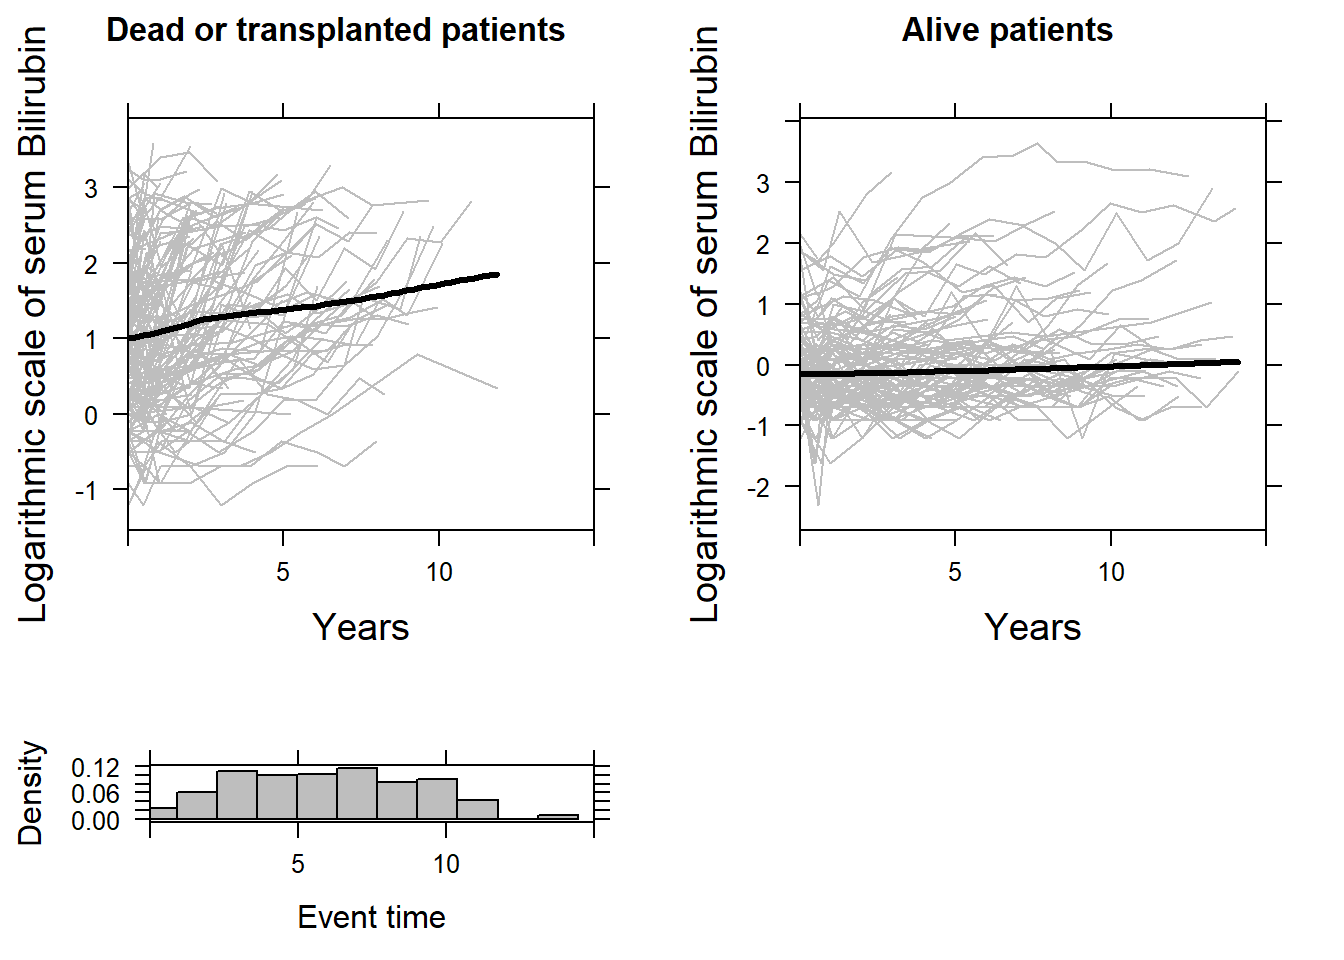
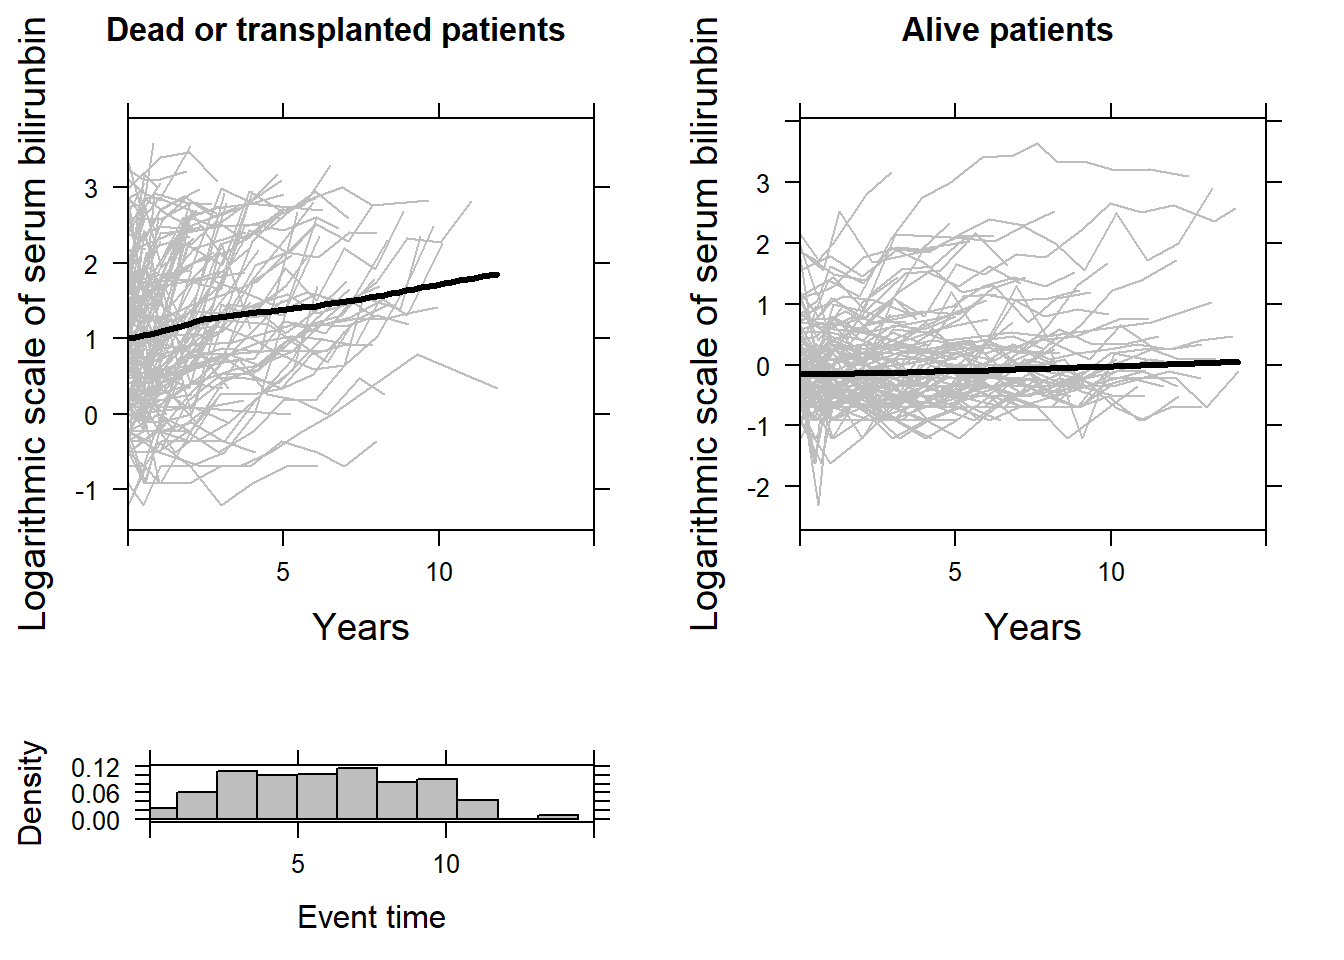
Correct name of serum bilirunbin

Changed region(s): [[0.5, 0.0, 0.5625, 0.6562], [0.0, 0.0, 0.0625, 0.6562]]

diff --git a/about.html b/about.html
@@ -387,7 +387,14 @@ div.tocify {
 3  2 14.15234  alive D-penicil 56.44782 female 0.0000000      No          Yes     Yes                No edema      1.1     302    4.14     7395 113.5       221        10.6          3       0
 4  2 14.15234  alive D-penicil 56.44782 female 0.4983025      No          Yes     Yes                No edema      0.8      NA    3.60     2107 139.5       188        11.0          3       0
 5  2 14.15234  alive D-penicil 56.44782 female 0.9993429      No          Yes     Yes                No edema      1.0      NA    3.55     1711 144.2       161        11.6          3       0
-6  2 14.15234  alive D-penicil 56.44782 female 2.1027270      No          Yes     Yes                No edema      1.9      NA    3.92     1365 144.2       122        10.6          3       0</code></pre>
+6  2 14.15234  alive D-penicil 56.44782 female 2.1027270      No          Yes     Yes                No edema      1.9      NA    3.92     1365 144.2       122        10.6          3       0
+  fitted_linear fitted_nonlinear
+1    15.6779416        15.103772
+2    17.7926729        19.190468
+3     0.9261698         1.013506
+4     1.1286476         1.080198
+5     1.3322379         1.181815
+6     1.7805816         1.605727</code></pre>
 <p>The wide format data set is called <code>pbc2.id</code>.</p>
 <pre class="r"><code>head(pbc2.id)</code></pre>
 <pre><code>   id     years       status      drug      age    sex year ascites hepatomegaly spiders                   edema serBilir serChol albumin alkaline  SGOT platelets prothrombin histologic status2
@@ -402,7 +409,7 @@ div.tocify {
 <pre class="r"><code>p1 &lt;- xyplot(log(serBilir) ~ year, groups = id, 
              data = pbc2[pbc2$status %in% c(&quot;dead&quot;, &quot;transplanted&quot;), ], xlim = c(0, 15),
              col = &quot;grey&quot;, lwd = 1, type = &quot;l&quot;,
-             ylab = list(label = &quot;Logarithmic scale of serum Bilirubin&quot;, cex = 1.2), 
+             ylab = list(label = &quot;Logarithmic scale of serum bilirunbin&quot;, cex = 1.2), 
              xlab = list(label = &quot;Years&quot;, cex = 1.2),
              main = list(label = &quot;Dead or transplanted patients&quot;, cex = 1.04),
              panel = function(x, y,...) {
@@ -415,7 +422,7 @@ div.tocify {
 p2 &lt;- xyplot(log(serBilir) ~ year, groups = id, 
              data = pbc2[pbc2$status %in% c(&quot;alive&quot;), ], xlim = c(0, 15),
              col = &quot;grey&quot;, lwd = 1, type = &quot;l&quot;,
-             ylab = list(label = &quot;Logarithmic scale of serum Bilirubin&quot;, cex = 1.2), 
+             ylab = list(label = &quot;Logarithmic scale of serum bilirunbin&quot;, cex = 1.2), 
              xlab = list(label = &quot;Years&quot;, cex = 1.2),
              main = list(label = &quot;Alive patients&quot;, cex = 1.04),
              panel = function(x, y,...) {
@@ -444,7 +451,7 @@ newdata &lt;- pbc2[pbc2$id %in% c(128, 142, 46, 57, 216, 93, 114, 120, 294), ]
 
 xyplot(serBilir ~ year | id, data = newdata, pch = 20, 
        subscripts = TRUE, col = 1, lwd = 3, strip = FALSE, cex = 1.5,
-       ylab = list(label = &quot;Serum Bilirubin&quot;, cex = 1.2),
+       ylab = list(label = &quot;Serum bilirunbin&quot;, cex = 1.2),
        xlab = list(label = &quot;Years&quot;, cex = 1.2),
        panel = function(x, y, subscripts = subscripts,...) {
          panel.xyplot(x, y, subscripts = subscripts, ...)
